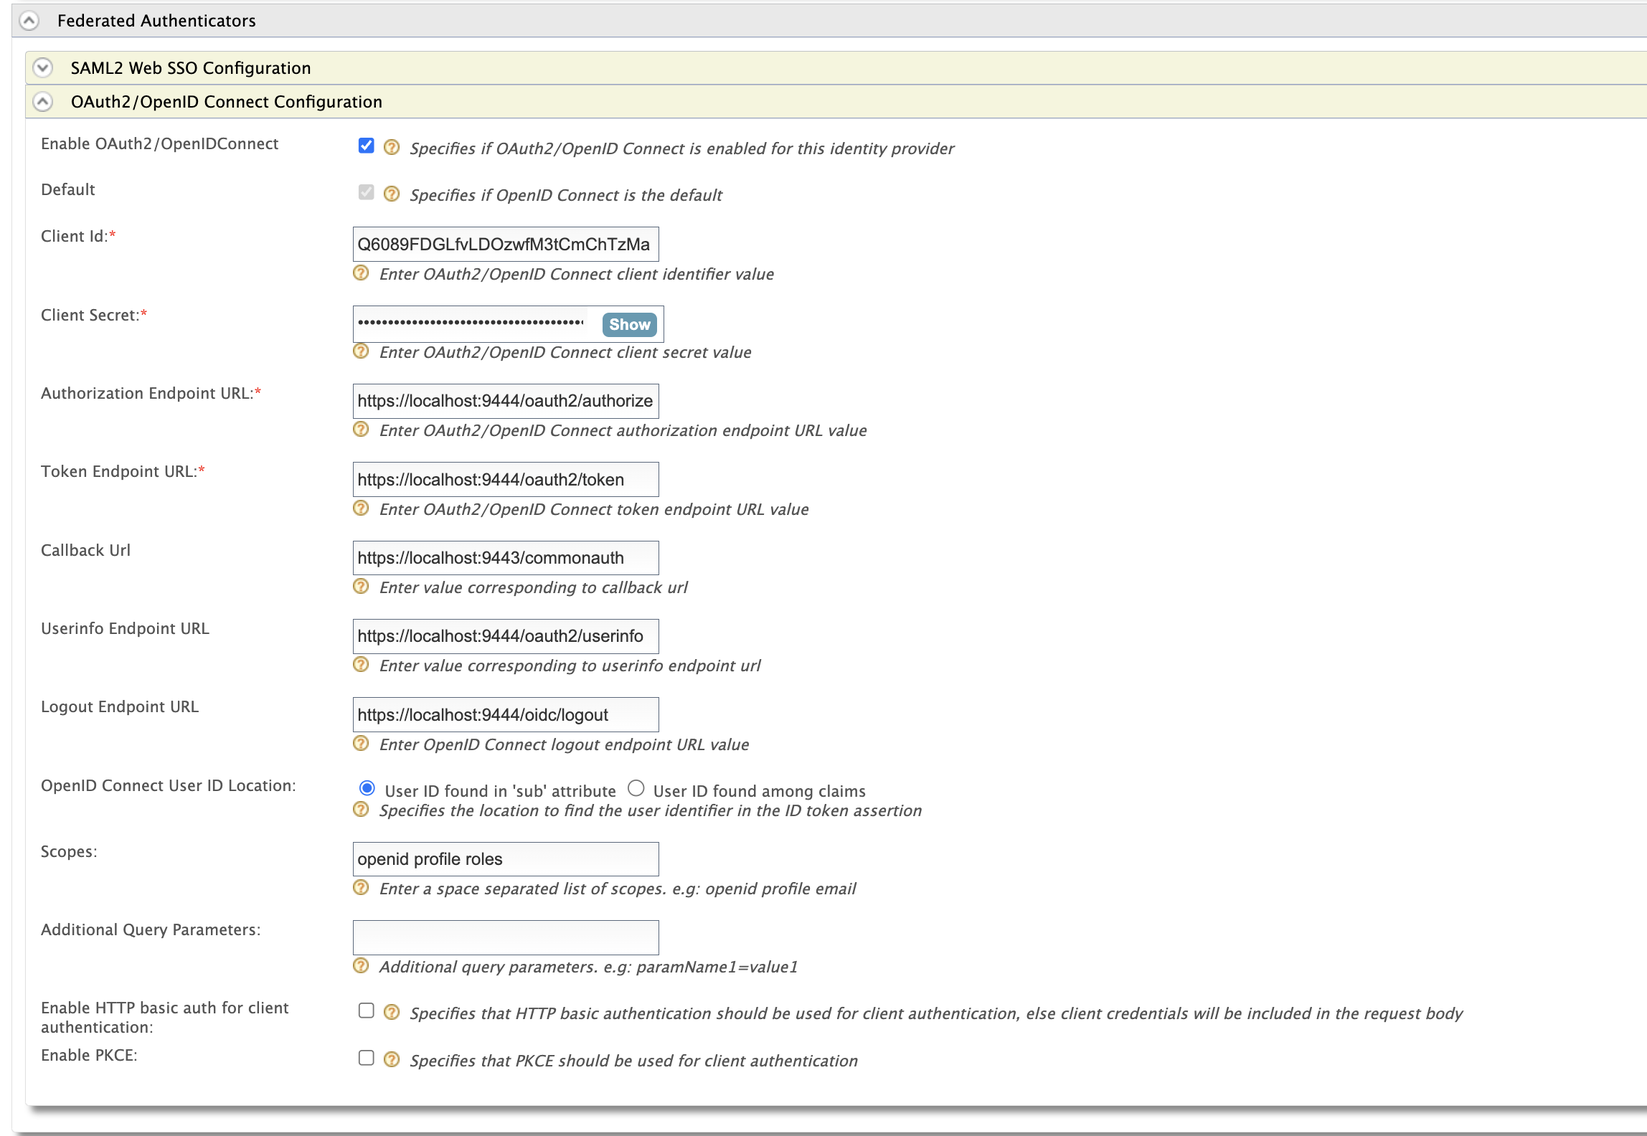
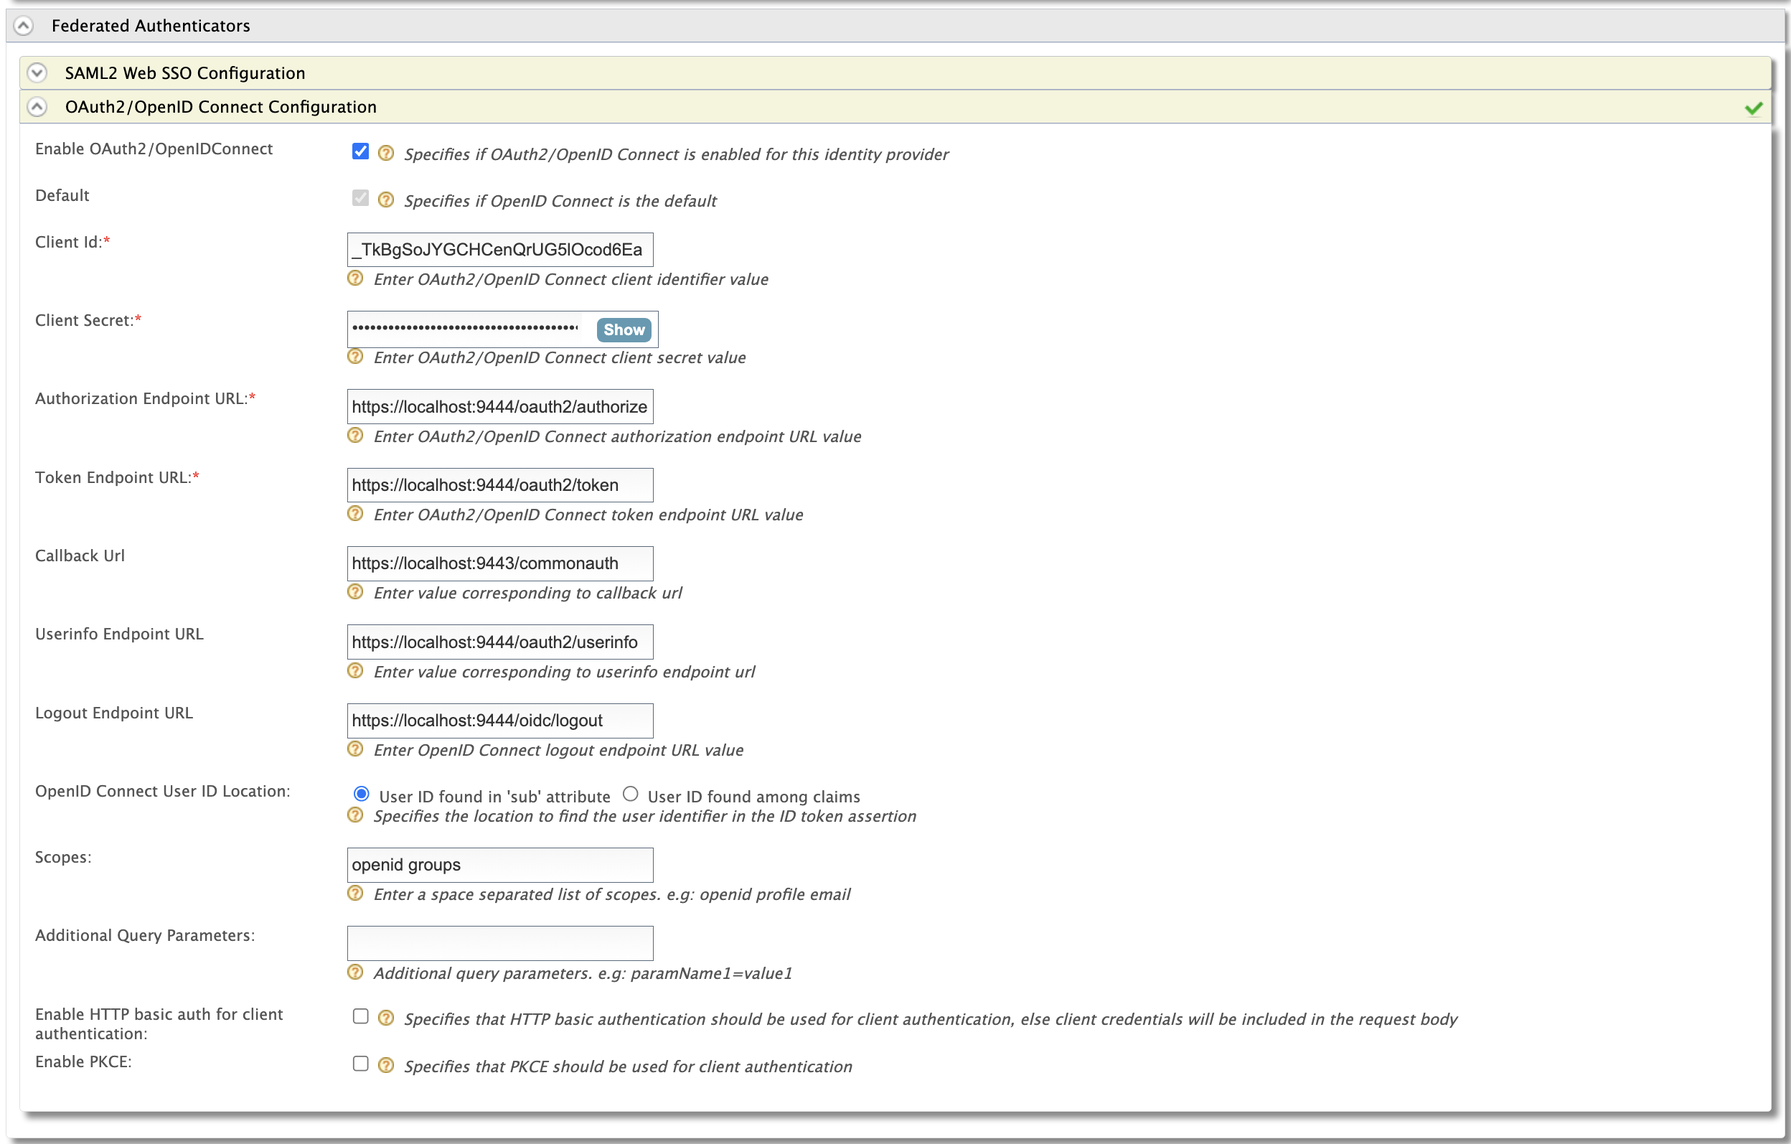
Update B2B API consumption docs
(cherry picked from commit de963cce77d40047888a3791f0b55e3301bb8ef2)

diff --git a/en/docs/api-manager/next/api-developer-portal/b2b-api-consumption/api-consumption.md b/en/docs/api-manager/next/api-developer-portal/b2b-api-consumption/api-consumption.md
@@ -15,7 +15,7 @@ content_type: "how-to"
 
 # B2B API Consumption
 
-Before this release, WSO2 API Manager operated without a defined organizational structure, maintaining a flat hierarchy. This led to limitations, including a lack of control over API visibility, business-specific subscriptions, and business-level insights. With the introduction of B2B features, you can now achieve a more structured approach.
+Before API-M 4.5.0, WSO2 API Manager operated without a defined organizational structure, maintaining a flat hierarchy. This led to limitations, including a lack of control over API visibility, business-specific subscriptions, and business-level insights. With the introduction of B2B features, you can now achieve a more structured approach.
 
 !!! note
     This release only provides support for organization-based restrictions in the Developer Portal.
@@ -31,92 +31,94 @@ For more information on setting up WSO2 Identity Server 7.1.0, see [Setup WSO2 I
 
 ## Set Up WSO2 API Manager
 
-1. Import Keymanager certificate to WSO2 API Manager client-truestore.jks. Use following steps.
+1. Import the Key Manager certificate into the WSO2 API Manager `client-truststore.jks` file.
 
-    Export WSO2 IS certificate.
+    Export the WSO2 Identity Server certificate.
     ``` bash
     openssl s_client -connect localhost:9444 -servername wso2is7 | openssl x509 > is7.cert
     ```
 
-    Import this certificate to the `client-truststore.jks` in `AM_HOME/repository/resources/security/`
+    Import this certificate into the `client-truststore.jks` file in `AM_HOME/repository/resources/security/`.
 
     ``` bash
     keytool -import -alias wso2is7cert -file is7.cert -keystore client-truststore.jks -storepass wso2carbon
     ```
 
 
-2. Need to add new local claim to store organization id. For that go to  Home > Identity > Claims> Add and select `Add Local Claim` and fill the form. Use Claim URI as [http://wso2.org/claims/organizationId](http://wso2.org/claims/organizationId )
+2. Add a new local claim to store the organization ID. Go to **Home > Identity > Claims > Add**, select `Add Local Claim`, and fill in the form. Use `http://wso2.org/claims/organizationId` as the claim URI.
 
-    ![Add new clam](../../assets/img/design/b2b/claims.png) 
+    ![Add new local claim](../../assets/img/design/b2b/claims.png) 
 
 
-3. Need to add `org_id` and `org_name` to oidc claims and map them to [http://wso2.org/claims/organizationId](http://wso2.org/claims/organizationId ) and [http://wso2.org/claims/organization](http://wso2.org/claims/organization) local claims. For that go to  Home > Identity > Claims> Add and select `Add External Claim`
+3. Add `org_id` and `org_name` to the OIDC claims and map them to the local claims `http://wso2.org/claims/organizationId` and `http://wso2.org/claims/organization`. To do this, go to **Home > Identity > Claims > Add** and select `Add External Claim`.
 
-    ![Add new clam](../../assets/img/design/b2b/add-claim-1.png) 
+    ![Add new external claim](../../assets/img/design/b2b/add-claim-1.png) 
       
-    ![Add new clam](../../assets/img/design/b2b/add-claim-2.png) 
+    ![Add new external claim](../../assets/img/design/b2b/add-claim-2.png) 
 
-4. Once added, it will be visible under the http://wso2.org/oidc/claim claim
+4. Once added, the claims will be visible under the `http://wso2.org/oidc/claim` claim dialect.
 
-    ![Add new clam](../../assets/img/design/b2b/claim-view.png) 
+    ![Claim view](../../assets/img/design/b2b/claim-view.png) 
 
-5. Now we need to configure WSO2 IS 7.1 as a federated IDP for API Manager. For that. Create a new Identity provider by selecting `Identity Providers` → `Add`. Set a name to the IDP
+5. Configure WSO2 IS 7.1 as a federated identity provider for API Manager. Create a new identity provider by selecting `Identity Providers` → `Add`, and then set a name for the IDP.
 
-6. Expand `Claim Configuration` and then `Basic Claim Configuration`. Select ‘Define Custom Claim Dialect’ radio button and add following claim mapping using `add claim mapping` button.
+6. Expand `Claim Configuration` and then `Basic Claim Configuration`. Select the `Define Custom Claim Dialect` radio button, and add the required claim mappings using the `Add Claim Mapping` button.
 
-7. Set the user id claim as `username` and Role claim URI as `roles`
+7. Set the `User ID Claim URI` to `username` and the `Role Claim URI` to `groups`.
 
     ![Claim config](../../assets/img/design/b2b/claim-config.png) 
 
     !!! note
-        `org_name`, `org_id`, `username`, `roles` are oidc claims sent from WSO2 IS. If external IDP is configured, map the corresponding claims.
+        `org_name`, `org_id`, `username`, and `groups` are OIDC claims sent from WSO2 IS. If an external IDP is configured, map the corresponding claims.
 
 
-8. Under the `Role Configuration`, Map IDP role `devportal` to local role `Internal/subscriber` . Do similar configurations to other roles as below.
+8. Under `Role Configuration`, map the IDP group `developer` to the local role `Internal/subscriber`. Configure the other groups similarly.
 
     ![Role config](../../assets/img/design/b2b/role-config.png) 
 
-9. Under the `Federated Authenticators` section, configure IS 7 as the federated authenticator using oauth2 application related information.
+9. Under the `Federated Authenticators` section, configure IS 7 as the federated authenticator using the OAuth2 application details.
 
-    ```
-    Enable Oauth2/OpenIDConnect : true
-    Scopes : openid profile roles
-    Callback URl: https://localhost:9443/commonauth
-    ```
+
+    | Setting                         | Value                                 |
+    |---------------------------------|---------------------------------------|
+    | Enable OAuth2/OpenIDConnect     | true (check the checkbox)                                  |
+    | Scopes                          | openid groups                         |
+    | Callback URL                    | https://localhost:9443/commonauth     |
+
 
     ![Federated authenticator](../../assets/img/design/b2b/federated-authenticator.png) 
 
-    Urls for other endpoints can be found in ‘info’ tab in the application created in identity server.
+    You can find the URLs for the other endpoints in the `Info` tab of the application created in Identity Server.
 
     ![Well-known URLs](../../assets/img/design/b2b/url-list.png) 
 
-10. Under `Just-in-Time Provisioning` Set provisioning as below. Finish the IDP configuration by clicking on the Register button.
+10. Under `Just-in-Time Provisioning`, configure provisioning as shown below. Finish the IDP configuration by clicking `Register`.
 
     ![JIT Provisioning](../../assets/img/design/b2b/jit.png) 
 
-11. Now you need to configure authenticators for the service providers. Go to the `service providers` section and select the edit button in  `apim_devportal`. 
+11. Next, configure authenticators for the service providers. Go to the `Service Providers` section and select the edit button for `apim_devportal`. 
 
     ![Service providers](../../assets/img/design/b2b/service-providers.png) 
 
     !!! note
-        If these service providers are not available, you need to first login to the developer portal and this will be created automatically.
+        If these service providers are not available, first log in to the respective portal. They will be created automatically.
 
-12. Under the `Local & Outbound Authentication Configuration` section, set the identity provider we created previously under the `Federated Authentication’ section.
+12. Under the `Local & Outbound Authentication Configuration` section, set the identity provider you created earlier under the `Federated Authentication` section.
 
     ![Configure federated authenticator](../../assets/img/design/b2b/configure-federated-authenticator.png) 
 
-13. Similarly do the same for other portal’s service providers
+13. Repeat the same configuration for the service providers of the other portals.
 
 ## Register Organizations in API Manager 
 
-First you need to map the organization in the identity server in the API manager. For that, 
+First, map the organizations in the Identity Server to API Manager.
 
-1. log in to Admin portal [https://localhost:9443/admin/](https://localhost:9443/admin/)  using `orgadmin`. 
+1. Log in to the Admin Portal at [https://localhost:9443/admin/](https://localhost:9443/admin/) using `orgadmin`. 
 
 	!!! note 
-        You cannot use admin/admin for this because locally created admin user does not belong to any organization.
+        You cannot use `admin/admin` for this step because the locally created admin user does not belong to any organization.
 
-2. Go to `Organizations` Tab and select `Register Organization` . Use the organization ids you got during organization registration step in WSO2 IS.
+2. Go to the `Organizations` tab and select `Register Organization`. Use the organization IDs that you obtained during the organization registration step in WSO2 IS.
 
     ![Register organizations](../../assets/img/design/b2b/register-org.png) 
 
@@ -125,9 +127,9 @@ First you need to map the organization in the identity server in the API manager
 
 WSO2 IS 7.1 provides the capability to register OAuth applications within organizations. As a result, it will have organization-specific URLs for OAuth-related operations. We will register organization-specific key managers and set visibility exclusively for users within the organization.
 
-1. Login to admin portal using `orgadmin` and go to `Key Managers` section and add new keymanager.
-2. Add name and display name. Select keymanager type as `WSO2 Identity Server 7`
-3. Fill the form using following. Replace the `org_id` with the `external reference Id` used during org registration. You could use  [https://localhost:9444/oauth2/token/.well-known/openid-configuration](https://localhost:9444/oauth2/token/.well-known/openid-configuration) as the well-known url and then replace the following
+1. Log in to the Admin Portal using `orgadmin`, go to the `Key Managers` section, and add a new key manager.
+2. Provide a name and display name. Select the key manager type as `WSO2 Identity Server 7`.
+3. Fill in the form as follows. Replace `org_id` with the external reference ID used during organization registration. You can use [https://localhost:9444/oauth2/token/.well-known/openid-configuration](https://localhost:9444/oauth2/token/.well-known/openid-configuration) as the well-known URL and then update the following endpoints.
 
     | Endpoint | URL |
     |----------|-----|
@@ -144,40 +146,40 @@ WSO2 IS 7.1 provides the capability to register OAuth applications within organi
     | WSO2 Identity Server 7 Roles Endpoint | `https://localhost:9444/scim2/v2/Roles` |
 
 
-4. Under the `Available Organizations` section, select the organization
+4. Under the `Available Organizations` section, select the organization.
 
     ![Key Manager visibility](../../assets/img/design/b2b/key-manager-visibility.png) 
 
-5. Under `Advanced Configurations` section, set `Token Handling Options` as JWT and set the organization id used previoiusly for keymanager registration as below.
+5. Under `Advanced Configurations`, set `Token Handling Options` to JWT and set the organization ID used previously for key manager registration as shown below.
 
     ![Key Manager config](../../assets/img/design/b2b/key-manager-conf.png) 
 
 ## Set Organization Visibility for APIs
 
-We can set APIs to be visible for users in all organizations, current organization, or set of organizations.
+You can set APIs to be visible to users in all organizations, the current organization, or a selected set of organizations.
 
-1. Login to publisher portal using a user with creator and publisher roles. In this example, `larry`
+1. Log in to the Publisher Portal using a user with the creator and publisher roles. In this example, `larry`.
 2. Create an API and fill the required data.
-3. Go to the `Lifecycle` page and publish the API
-4. At the top bar, select 'Share' button.
+3. Go to the `Lifecycle` page and publish the API.
+4. On the top bar, click `Share`.
 
     ![Share with Organizations](../../assets/img/design/b2b/share.png) 
 
-5. Select which organization you need to share and select organization specific business plans as well and save.
+5. Select the organizations to share the API with, choose the organization-specific business plans, and save the changes.
 
     ![Share with Organizations](../../assets/img/design/b2b/share-with-plans.png) 
 
-    !!!note
-        APIs with Developer Portal visibility set to 'public' are still not visible on the anonymous Developer Portal page if they have been shared with an organization. To make them visible in the Developer Portal without user login, set the organization visibility to 'All Organizations'.
+    !!! note
+        APIs with Developer Portal visibility set to `public` are still not visible on the anonymous Developer Portal page if they have been shared with an organization. To make them visible in the Developer Portal without user login, set the organization visibility to `All Organizations`.
 
-    !!!note
-        Organization visibility is not supported for API product for this release.
+    !!! note
+        Organization visibility is not supported for API products in this release.
 
-## Login to developer portal and invoke the API.
+## Log in to the Developer Portal and invoke the API
 
-1. Go to developer portal and click login button
+1. Go to the Developer Portal and click the login button.
 
-2. Use the SSO option and give the organization name. 
+2. Use the SSO option and enter the organization name. 
 
     ![Login with SSO](../../assets/img/design/b2b/login.png) 
     
@@ -185,11 +187,11 @@ We can set APIs to be visible for users in all organizations, current organizati
 
 3. You should be able to see APIs shared with this organization.
 
-4. Lets create an application. You have the option to share the application with all the users within the organization as well.
+4. Create an application. You also have the option to share the application with all users within the organization.
 
     ![Share Application](../../assets/img/design/b2b/share-app.png) 
 
-5. Under the application keys sections, you would see the keymanager specifically set for this organization.
+5. Under the application keys section, you will see the key manager configured specifically for this organization.
 
     ![Application Keys](../../assets/img/design/b2b/key-page.png) 
 
@@ -197,10 +199,10 @@ We can set APIs to be visible for users in all organizations, current organizati
 
 7. Logout and attempt to log in again with a different user from another organization.
 
-    !!!note
+    !!! note
         When running both API Manager and WSO2 Identity Server on the same host (localhost), you may encounter an issue where a Developer Portal user does not log out when switching between two users within the same organization. This occurs due to both servers sharing the same host. In a production setup, this issue does not arise as the servers are hosted separately. To overcome this issue, you can use a private browser window for testing locally or set up WSO2 Identity Server on a different host.
 
-        If the Identity Server is running on a **different host** and you encounter an issue with logout session removal, set the `logoutSessionStateAppender` to an empty value in the following configuration.
+        If the Identity Server is running on a **different host** and you encounter an issue with logout session removal, set `logoutSessionStateAppender` to an empty value in the following files.
 
             <AM_HOME>/repository/deployment/server/webapps/publisher/site/public/conf/settings.json
             <AM_HOME>/repository/deployment/server/webapps/admin/site/public/conf/settings.json
@@ -208,9 +210,9 @@ We can set APIs to be visible for users in all organizations, current organizati
 
 
 !!! tip 
-    Although this feature is enabled by default, organization visibility features are only available after you register organizations. You could specifically disable this feature by adding 
+    Although this feature is enabled by default, organization visibility features are available only after you register organizations. You can explicitly disable this feature by adding the following configuration.
 
     ```
     [apim.organization_based_access_control]
-    enable = true
+    enable = false
     ```

diff --git a/en/docs/api-manager/next/api-developer-portal/b2b-api-consumption/setup-identity-server.md b/en/docs/api-manager/next/api-developer-portal/b2b-api-consumption/setup-identity-server.md
@@ -20,7 +20,7 @@ WSO2 Identity Server 7.1.0 includes B2B organization support. The following inst
 ## Configure WSO2 Identity Server
 
 1. Download [WSO2 Identity Server 7.1.0](https://wso2.com/identity-server/).
-2. Add following configurations in the <IS7_HOME>/repository/conf/deployment.toml file.
+2. Add the following configuration to the `<IS7_HOME>/repository/conf/deployment.toml` file.
     ```toml
     [oauth]
     authorize_all_scopes = true
@@ -44,57 +44,53 @@ WSO2 Identity Server 7.1.0 includes B2B organization support. The following inst
     `sh wso2server.sh -DportOffset=1`
 
 4. Log in to the IS Console at [https://localhost:9444/console](https://localhost:9444/console) and create a new application.
-    - Select "Traditional Web Application" and complete the form.
-    - Set the Redirect URL to [https://localhost:9443/commonauth](https://localhost:9443/commonauth) 
+    - Select `Traditional Web Application` and complete the form.
+    - Set the Redirect URL to [https://localhost:9443/commonauth](https://localhost:9443/commonauth).
 
     ![Create new application](../../assets/img/design/b2b/create-new-app.png) 
 
-5. Select ‘Allow sharing with organizations’ option.
+5. Select the `Allow sharing with organizations` option.
 
     ![Allow sharing with organizations](../../assets/img/design/b2b/allow-sharing-with-orgs.png) 
 
-6. Once the application is created, go to the 'Protocol' tab and copy the Client ID and Secret for later use.
-7. Go to the **User Attributes tab** and select **Roles**.
+6. Once the application is created, go to the `Protocol` tab and copy the Client ID and Client Secret for later use.
+7. Go to the **User Attributes** tab and select **Groups**.
 
     ![Select roles](../../assets/img/design/b2b/select-roles.png) 
 
-8. Under the **Subject sub-section**, select **Assign alternate subject identifier** and select **Username**.
+8. Under the **Subject** sub-section, select **Assign alternate subject identifier** and then select **Username**.
 
     ![Select subject ](../../assets/img/design/b2b/sub_alt.png) 
 
-9. Under the **Roles sub-section**, add application roles **devportal**, **publisher**, **creator**, **admin**.
+9. Go to the **User Management** menu item, navigate to the **Groups** sub-menu item, and add the following groups: **developer**, **publisher**, and **creator**.
 
-    ![Application roles ](../../assets/img/design/b2b/app-roles.png) 
+    ![Add new groups - Super organization](../../assets/img/design/b2b/super-org-groups.png) 
 
-10. Go to the **User Management** menu item, navigate to the **Users tab**, and create three users—one for each portal.
+10. Go to the **User Management** menu item, navigate to the **Users** sub-menu item, and create three users—one for each portal. Make sure to assign the respective group to each user during user creation.
+
+    In this example:
+
+    - admin → `orgadmin`
+    - publisher, creator → `larry`
+    - developer → `david`
 
     ![Organization users ](../../assets/img/design/b2b/org-users.png) 
 
-11. Go to the **Roles** menu item under the **User Management** menu item and assign application roles to users. (Check audience column and get the application/<application name> roles)
-
-    ![Organization users ](../../assets/img/design/b2b/org-users-with-roles.png) 
-
-12. Select a role and go to the **Users tab** to assign users to the role.
-In this example
-    admin → orgadmin
-    publisher, creator → larry
-    devportal → david
-
-13. Now let's create organizations. For that, select **Organization** and create a couple of new organizations. Note down the organization IDs.
+11. Next, create organizations. Select **Organization** and create a few new organizations. Note down the organization IDs.
 
     ![Create organizations ](../../assets/img/design/b2b/create-organizations.png) 
 
-14. Select the organization and click **Switch to Organization**.
+12. Select the organization and click **Switch to Organization**.
 
     ![Switch organizations ](../../assets/img/design/b2b/switch-organization.png) 
 
-15. Under the **Users** menu item in **User Management**, add a new user. Let's say `emily` and `robert`.
+13. Navigate to the **Groups** sub-menu item under **User Management**, and add a new group that will be assigned to users who access the API-M Developer Portal.
 
-16. Under the **Roles** menu item in **User Management**, find the previously created `devportal` role and select it. Select the **Users tab** and set the user to this role.
+    ![Add new groups - Sub organization](../../assets/img/design/b2b/sub-org-groups.png) 
 
-    ![Dev portal roles ](../../assets/img/design/b2b/dev-portal-roles.png) 
+14. Under the **Users** menu item in **User Management**, add new users such as `emily` and `robert`. Make sure to assign the group created previously to each user during user creation.
 
     !!! note
-        Organization restriction capability is not supported in the Admin and Publisher portals in this release. To prevent organization users from logging into these portals, do not assign them Admin or Publisher/Creator roles to the users in sub organizations.
+        Organization restriction capability is not supported in the Admin and Publisher portals in this release. To prevent organization users from logging in to these portals, do not assign Admin or Publisher/Creator groups to users in sub-organizations.
 
-17. Similarly, create a user in another organization and assign the developer role.
+15. Similarly, create a user in another organization and assign the developer group created in that sub-organization.
